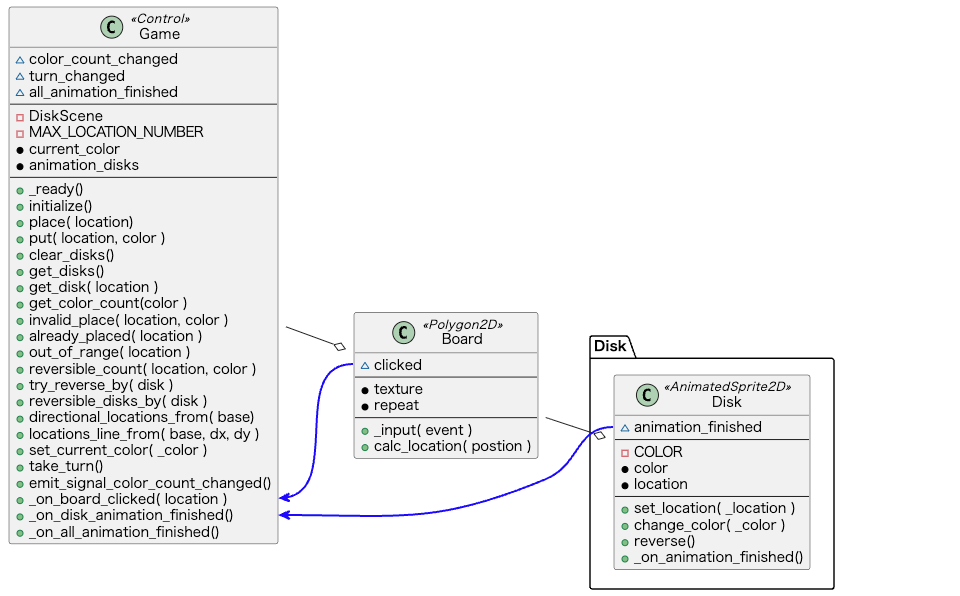
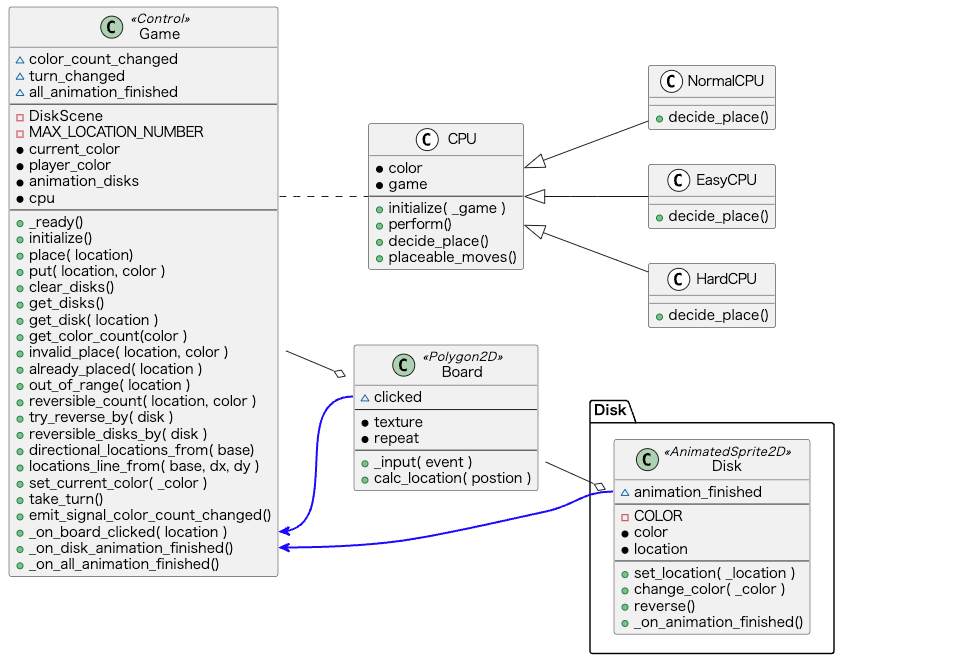
リバーシの一応の完成

diff --git a/README.md b/README.md
@@ -1,2 +1,6 @@
 # Godot-simple_game-examples
 Godot simple game examples
+
+## [Reversi](Reversi)
+
+<img src="Reversi/doc/Screenshot.png" width=600px>
